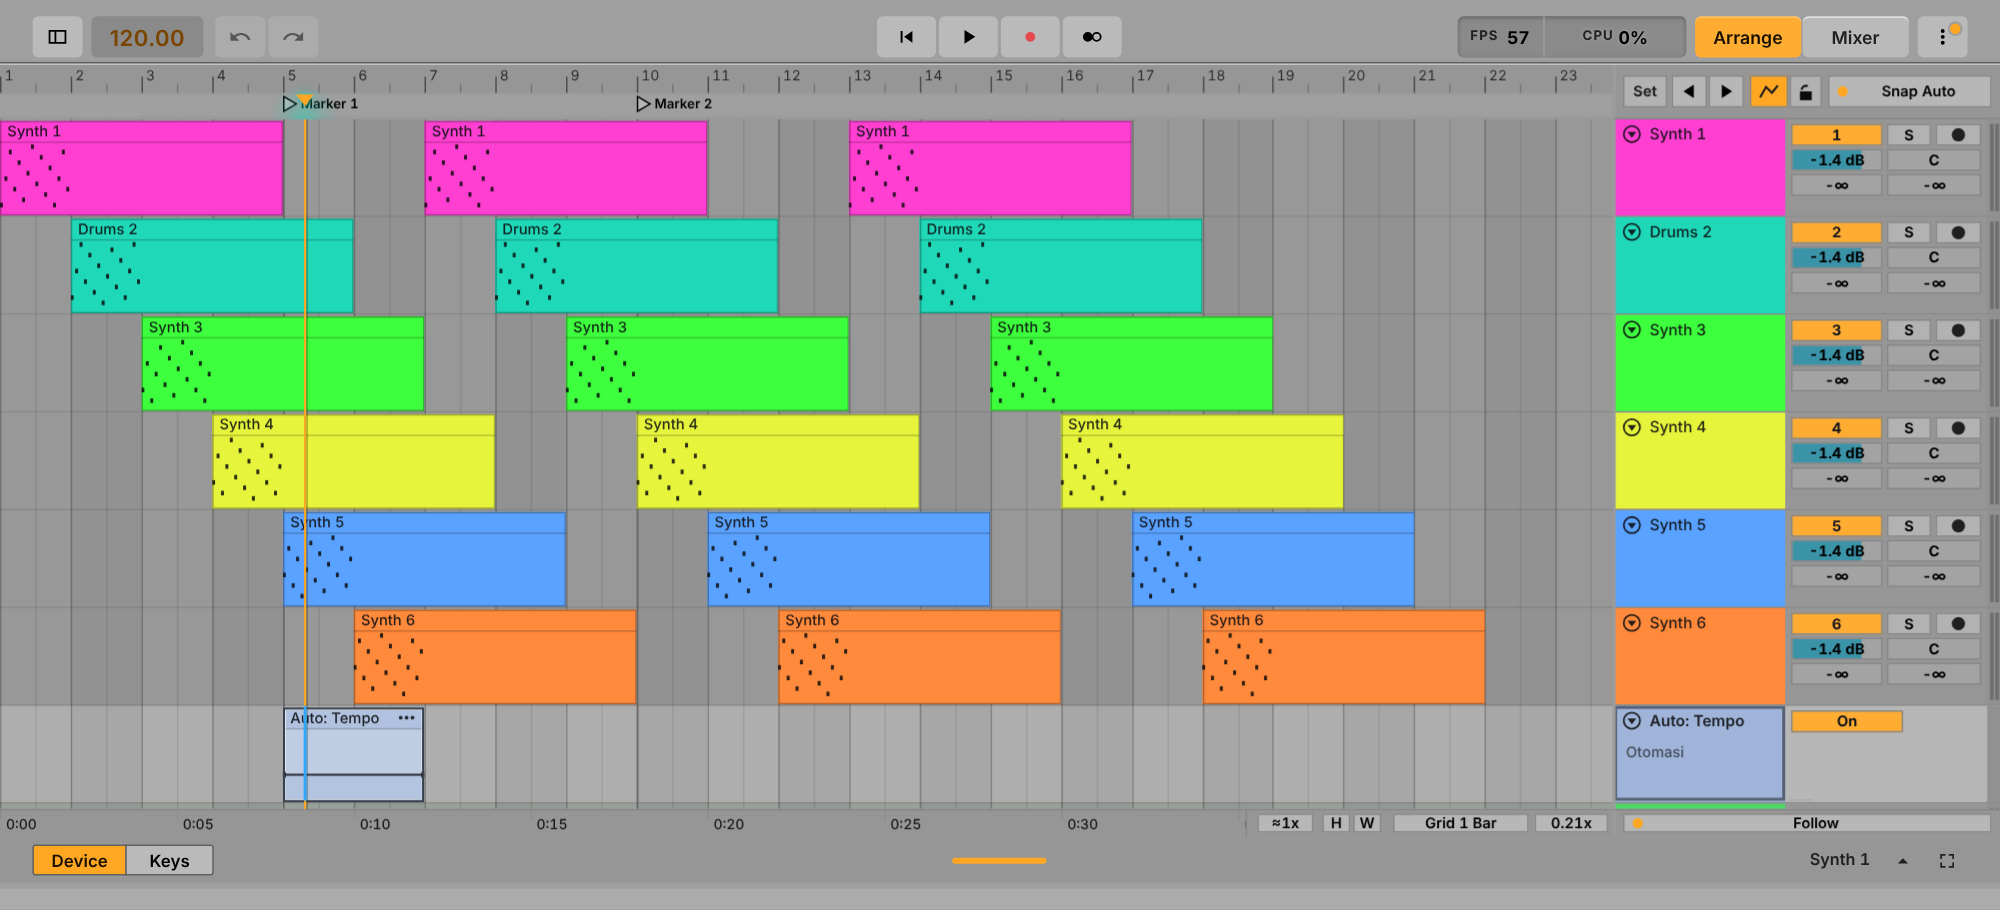
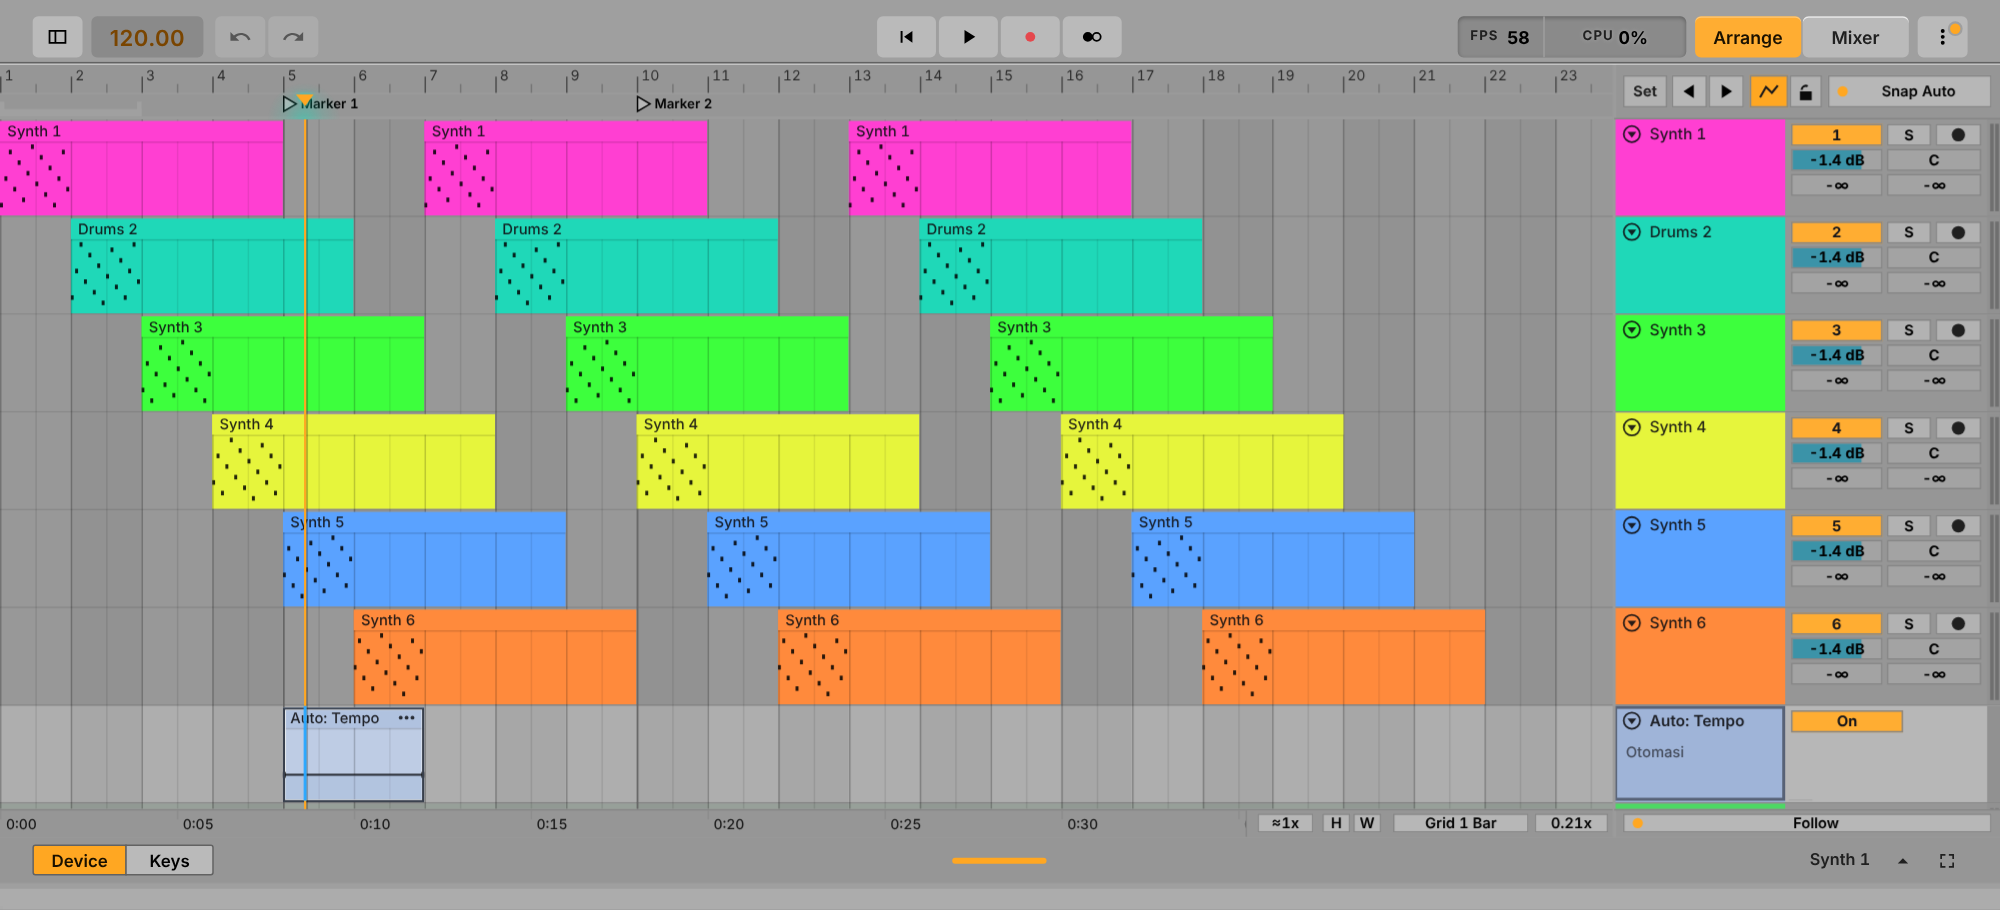
Arrangement colours and lines sampled from the official Live 12 references
- Dark (Live 12) lanes and ruler #323440, a faint dark grid, the grid also through clip bodies
- clips without outline, a faint line under the name strip
- waveforms in a deep tone of the clip colour, notes in its darkest tone

Claude-Session: https://claude.ai/code/session_016R99TjSh2G5U2VqVgMNHhT

diff --git a/js/timeline.js b/js/timeline.js
@@ -240,8 +240,10 @@ function drawClip(t, c, y, hh) {
   // a deactivated clip is grey. Folded / short rows show only the colour + content (no strip).
   const body = c.muted ? '#9a9a9f' : isSel ? tint(t.color, 0.32) : t.color;
   ctx.fillStyle = body; ctx.fillRect(x, y0, w, h0);
-  if (tall) { ctx.fillStyle = isSel ? tint(col, 0.18) : col; ctx.fillRect(x, y0, w, hd); ctx.fillStyle = 'rgba(0,0,0,.22)'; ctx.fillRect(x, y0 + hd, w, 1); }
-  ctx.strokeStyle = 'rgba(0,0,0,.3)'; ctx.lineWidth = 1; ctx.strokeRect(Math.round(x) + 0.5, y0 + 0.5, Math.max(0, Math.round(w) - 1), h0 - 1);   // Live: a faint edge, no heavy outline
+  if (tall) { ctx.fillStyle = isSel ? tint(col, 0.18) : col; ctx.fillRect(x, y0, w, hd); ctx.fillStyle = 'rgba(0,0,0,.14)'; ctx.fillRect(x, y0 + hd, w, 1); }   // the name strip: same colour, a faint line under it
+  // Live 12 (refs/live12-official/02): no outline around a clip; the arrangement grid runs through its body as faint darker lines (beats, bars)
+  { const gx = gridT(), bp = BAR * view.ppt; if (gx * view.ppt >= 6) { ctx.fillStyle = 'rgba(0,0,0,.08)'; for (let tk = Math.ceil(cs / gx) * gx; tk < cs + cl; tk += gx) { const lx = Math.round(tx(tk)); if (lx > xs && lx < xe) ctx.fillRect(lx, y0 + hd, 1, h0 - hd); } }
+    if (bp >= 4) { ctx.fillStyle = 'rgba(0,0,0,.12)'; for (let b = Math.max(0, P.barAt(cs)); P.barStart(b) < cs + cl; b++) { const lx = Math.round(tx(P.barStart(b))); if (lx > xs && lx < xe) ctx.fillRect(lx, y0 + hd, 1, h0 - hd); } } }
   if (isSel && !c.muted) { ctx.strokeStyle = 'rgba(255,255,255,.85)'; ctx.strokeRect(Math.round(x) + 1.5, y0 + 1.5, Math.max(0, Math.round(w) - 3), h0 - 3); }   // selected: a light inner edge
   if (tall && w > 18) {
     ctx.fillStyle = ink(col); ctx.font = FONT(500, 10); ctx.textBaseline = 'middle';   // Live: clip names regular weight
@@ -258,7 +260,7 @@ function drawClip(t, c, y, hh) {
     ctx.fillStyle = INK; for (const p of pts) { const px = x + p.t * view.ppt; if (px >= xs - 3 && px <= xe + 3) ctx.fillRect(px - 2, yy(p.v) - 2, 4, 4); }   // breakpoints, as in Live's automation
   } else if (t.kind === 'audio' && (c.dsample || c.sample) && ((c.dsample || c.sample).pyr || (c.dsample || c.sample).peaks) && bh > 8) {
     const es = c.dsample || c.sample, lk = live.get(c.id) || 1, o = c.offset || 0;
-    ctx.fillStyle = INK;
+    ctx.fillStyle = c.muted ? INK : shade(t.color, 0.72);   // Live 12 (refs/live12-official 02, 03): the waveform in a deep tone of the clip colour, not black
     for (const g of P.loopSegs(c)) {                            // a clip longer than its audio repeats it: every repeat is drawn from the start of the content
       const sx = x + g.o * view.ppt, sw = g.len * view.ppt;
       if (sx > xe || sx + sw < xs) continue;
@@ -278,7 +280,7 @@ function drawClip(t, c, y, hh) {
     }
   } else if (c.notes && bh > 6) {
     const [lo, hi] = noteBox(c), span = hi - lo + 1, nh = Math.max(2, Math.min(bh / span * 0.8, 7));   // Live: solid note bars, about 4/5 of a pitch row
-    ctx.fillStyle = INK;
+    ctx.fillStyle = c.muted ? INK : shade(t.color, 0.85);   // Live 12: notes nearly black, in the clip colour's darkest tone
     for (const g of P.loopSegs(c)) {                            // looped MIDI: the notes are drawn again in every repeat (no empty bars)
       const gx = x + g.o * view.ppt;
       if (gx > xe || gx + g.len * view.ppt < xs) continue;
@@ -351,9 +353,9 @@ function draw() {
   // zoomed-out arrangement is not striped with bright bar lines; every other labelled group a shade darker. Grid Line Intensity scales them.
   const barPx = BAR * view.ppt; let kb = 1; while (barPx * kb < 34) kb *= 2;                     // the same step as the ruler's bar numbers
   const light = currentTone() === 'light', INK = light ? '0,0,0' : '255,255,255', GI = 0.4 + 1.2 * (prefs.gridInt == null ? 0.5 : prefs.gridInt), line = (a) => `rgba(${INK},${Math.min(0.6, a * GI).toFixed(3)})`;
-  ctx.fillStyle = light ? 'rgba(0,0,0,.04)' : 'rgba(0,0,0,.12)';
+  ctx.fillStyle = light ? 'rgba(0,0,0,.04)' : 'rgba(0,0,0,.035)';   // Live 12 dark: the bands barely show
   for (let b = Math.floor(Math.max(0, P.barAt(view.x0)) / kb) * kb; tx(P.barStart(b)) < CW; b += kb) { if ((b / kb) & 1) { const x0 = tx(P.barStart(b)), x1 = tx(P.barStart(b + kb)); ctx.fillRect(x0, RULER, x1 - x0, gy1 - RULER); } }
-  const tEnd = view.x0 + CW / view.ppt + g, sub = line(light ? 0.05 : 0.05), beat = line(light ? 0.09 : 0.10);
+  const tEnd = view.x0 + CW / view.ppt + g, sub = line(light ? 0.05 : 0.025), beat = line(light ? 0.09 : 0.04);
   eachGrid(view.x0 - g, tEnd, g, (t, j) => {
     const x = Math.round(tx(t));
     if (x < 0 || x > CW) return;
@@ -362,7 +364,7 @@ function draw() {
     ctx.fillStyle = r % P.MM.bt[j] === 0 ? beat : sub;
     ctx.fillRect(x, RULER, 1, gy1 - RULER);
   });
-  const barL = line(light ? 0.14 : 0.15), grpL = line(light ? 0.24 : 0.26);   // Live's dark grid reads clearly (refs/live12/058)
+  const barL = line(light ? 0.14 : 0.06), grpL = line(light ? 0.24 : 0.10);   // Live 12's dark grid is faint: about 3-5 levels off the lane (sampled from refs/live12-official/02)
   for (let b = Math.max(0, P.barAt(view.x0)); tx(P.barStart(b)) < CW; b++) { const x = Math.round(tx(P.barStart(b))); if (x >= 0) { ctx.fillStyle = b % kb ? barL : grpL; ctx.fillRect(x, RULER, 1, gy1 - RULER); } }
   if (P.state.sigs.length) { ctx.fillStyle = 'rgba(255,167,34,.3)'; for (const c of P.state.sigs) { const x = Math.round(tx(P.barStart(c.bar))); if (x >= 0 && x <= CW) ctx.fillRect(x, RULER, 1, gy1 - RULER); } }
   for (const m of state.markers) { const x = Math.round(tx(m.t)); if (x < 0 || x > CW) continue; ctx.fillStyle = C('#0e0e10'); ctx.fillRect(x, RULER, 1, gy1 - RULER); }   // Live: a dark line down from every locator
@@ -449,7 +451,7 @@ let loopA = 0;                                                   // drawn bright
 const PUon = () => state.punch.on && state.punch.end > state.punch.start;
 function drawRuler(g) {
   ctx.fillStyle = C('#2c2c2f'); ctx.fillRect(0, 0, CW, LT);                                 // beat-time ruler
-  ctx.fillStyle = C('#232325'); ctx.fillRect(0, LT, CW, RULER - LT);                       // scrub area: locators, loop brace
+  ctx.fillStyle = C('#2c2c2f'); ctx.fillRect(0, LT, CW, RULER - LT);                       // scrub area: locators, loop brace (Live 12: the ruler's colour)
   ctx.fillStyle = C('#08080a'); ctx.fillRect(0, LT - 1, CW, 1); ctx.fillRect(0, RULER - 2, CW, 2);
   ctx.save(); ctx.beginPath(); ctx.rect(0, 0, CW, RULER); ctx.clip();
   if (sel) { ctx.fillStyle = 'rgba(255,255,255,.22)'; ctx.fillRect(tx(sel.a), 0, tx(sel.b) - tx(sel.a), LT - 1); }

diff --git a/sw.js b/sw.js
@@ -1,5 +1,5 @@
 // Offline cache. The cache name contains a hash of every file, so a new deploy replaces the old cache automatically.
-const CACHE = 'mobiledaw-377c9164af45';
+const CACHE = 'mobiledaw-042ff087e91e';
 const ASSETS = ["./", "./css/app.css", "./css/ableton.css", "./css/float.css", "./css/live.css", "./icons/icon-192.png", "./icons/icon-512.png", "./icons/icon-maskable-512.png", "./index.html", "./js/about.js", "./js/aboutdata.js", "./js/audioedit.js", "./js/autocurve.js", "./js/automate.js", "./js/autosave.js", "./js/browser.js", "./js/chords.js", "./js/colorpick.js", "./js/defs.js", "./js/demos.js", "./js/devices.js", "./js/devviz.js", "./js/drumpad.js", "./js/edgeguard.js", "./js/editor.js", "./js/engine.js", "./js/engine/analog.js", "./js/engine/audioops.js", "./js/engine/cmdtext.js", "./js/engine/core.js", "./js/engine/dsp.js", "./js/engine/drift.js", "./js/engine/ds.js", "./js/engine/fx.js", "./js/engine/fx2.js", "./js/engine/fx3.js", "./js/engine/fx4.js", "./js/engine/fx5.js", "./js/engine/fx6.js", "./js/engine/fx7.js", "./js/engine/fx8.js", "./js/engine/granulator.js", "./js/engine/impulse.js", "./js/engine/instruments.js", "./js/engine/live.js", "./js/engine/meld.js", "./js/engine/meter.js", "./js/engine/mp3.js", "./js/engine/mp3tables.js", "./js/engine/nativesink.js", "./js/engine/operator.js", "./js/engine/phys.js", "./js/engine/poli.js", "./js/engine/sabio.js", "./js/engine/sf2.js", "./js/engine/simpler.js", "./js/engine/flmsyn.js", "./js/engine/hdgms.js", "./js/engine/hdmfx.js", "./js/engine/hdmini.js", "./js/engine/hdsaw.js", "./js/engine/smf.js", "./js/engine/stretchworker.js", "./js/engine/tmap.js", "./js/engine/wav.js", "./js/engine/waveops.js", "./js/engine/mdaw.wasm", "./js/engine/wasmengine.js", "./js/engine/web.js", "./js/engine/worklet-wasm.js", "./js/engine/worklet.js", "./js/floatwin.js", "./js/fps.js", "./js/fxviz.js", "./js/fxkit.js", "./js/flmpanels.js", "./js/flmfx.js", "./js/flm3osc.js", "./js/flmlayout.js", "./js/flmlive.js", "./js/slicerdetect.js", "./js/fxlaw.js", "./js/flmviz.js", "./js/gesture.js", "./js/history.js", "./js/import/als.js", "./js/import/build.js", "./js/import/flm.js", "./js/import/flp.js", "./js/import/fxmap.js", "./js/import/gm.js", "./js/import/index.js", "./js/import/ui.js", "./js/keymap.js", "./js/keys.js", "./js/layout.js", "./js/liveinst.js", "./js/liveui.js", "./js/log.js", "./js/main.js", "./js/midi.js", "./js/midiio.js", "./js/minimeters.js", "./js/mmdraw.js", "./js/native.js", "./js/perf.js", "./js/mixer.js", "./js/prefs.js", "./js/presetlib.js", "./js/presets.js", "./js/project.js", "./js/projects.js", "./js/pwa.js", "./js/quicksave.js", "./js/reorder.js", "./js/safdir.js", "./js/settingsui.js", "./js/storage.js", "./js/tempo.js", "./js/theme.js", "./js/timeline.js", "./js/topbar.js", "./js/touchhit.js", "./js/ui.js", "./js/uiscale.js", "./js/waveform.js", "./js/zip.js", "./manifest.json"];
 self.addEventListener('install', (e) => { e.waitUntil(caches.open(CACHE).then((c) => c.addAll(ASSETS)).then(() => self.skipWaiting())); });
 self.addEventListener('activate', (e) => {

diff --git a/js/theme.js b/js/theme.js
@@ -15,7 +15,7 @@ const LIB = {
   highc:    { name: 'Dark Neutral High Contrast', base: 'dark', a: -8, b: 1.14 },
   medc:     { name: 'Dark Neutral Medium Contrast', base: 'dark', a: 10, b: 0.98 },
   // Live 12's default dark theme (refs/live12-official 01-03): the greys a little lighter and cool - lanes about #2c2e35, panels #23252a
-  live12:   { name: 'Dark (Live 12)', base: 'dark', a: 12, b: 0.96, tint: [-3, 0, 6] },
+  live12:   { name: 'Dark (Live 12)', base: 'dark', a: 10, b: 0.96, tint: [-2, 0, 12] },   // lanes / ruler #323440 as sampled from refs/live12-official/02
   lightmc:  { name: 'Light Neutral Medium Contrast', base: 'light', a: -26, b: 1.04 },
   lightlc:  { name: 'Light Neutral Low Contrast', base: 'light', a: -8, b: 0.86 },
   midlight: { name: 'Mid Light',                base: 'light', a: -42, b: 1.0 },

diff --git a/docs/HANDOFF.md b/docs/HANDOFF.md
@@ -765,6 +765,7 @@ Permintaan pemilik: SEMUA efek dan instrumen diganti dengan set stok Ableton Liv
 - Font arrangement disamakan dengan Live: nama track 10.5 px regular, nama klip regular, angka ruler 9.5 px regular abu.
 - **Header track = Live 12** (refs/live12/058, `timeline.js hdr`): tiga kolom ½ / ¼ / ¼: baris 1 aktivator (nomor) | S | arm, baris 2 volume | pan, baris 3 send A | send B (nilai dB polos). Tidak ada tombol otomasi dan isian output di header (ada di menu header: Output…, Lane otomasi…). Grid tema gelap lebih terang, tepi klip tipis. `header-ui-test.mjs` diperbarui.
 - **Referensi resmi Live 12** (`docs/refs/live12-official/01..05`, dari pemilik): garis antar-track tipis 1 px, area drop hanya teks "Seret file dan device ke sini" (tanpa kotak), blok nama berwarna ~46% lebar header, tema baru **Dark (Live 12)** (`live12`: abu sedikit lebih terang dan dingin, LIB `tint`). Perbandingan: `docs/redesign/arr/compare-live12-official.png`.
+- **Warna & garis dari sampel piksel referensi resmi** (refs/live12-official/02): lane & ruler tema Dark (Live 12) = #323440; grid gelap sangat halus (3-5 level dari lane); grid juga tergambar samar di badan klip (beat 8%, bar 12% hitam); klip tanpa outline; strip nama warna sama + garis 14%; waveform = nada gelap warna klip (shade 0.72), not = nada tergelap (0.85); pita selang-seling hampir tak terlihat di tema gelap; area scrub warna ruler.
 - Belum: instrumen replika Live (Drift, Operator, Analog, Poli, Meld, Wavetable, Simpler, Impulse, Granulator, Electric/Tension/Collision, DS) tidak diubah; penanda slice di display Slicer belum ada.
 
 - **Card modul FLM = device Live** (permintaan pemilik: bahasa desain, perilaku dan interaksi card FX Ableton Live): `fxkit.js flmLive` + komposisi per modul di `js/flmlive.js` (37 efek + Transistor Bass / Slicer), dibangun dari bagian yang sama dengan panel Live 12 (`k.dk` display gelap, `k.NT` angka oranye, `k.TL`, `lk-ch`). Pola: kolom knob kiri (`L`) | display (`D`: grafik `flmviz`, `handles` yang diseret seperti Live - EQ band bernomor, ring Filter freq/reso, Threshold Compressor / Gate / Limiter, crossover Multiband, X/Y Waveshaper & Multi FX, 8 band Graphic / Tuned EQ; `tabs` = tombol mode di bawah grafik; `rows` = baris angka di dalam display, `table` = tabel band ala Multiband Dynamics; `tap` keyboard Pitcher; `piano` Scale) | baris knob di bawah display (`B`, ala Chorus-Ensemble / Phaser-Flanger / Auto Pan) | kolom kanan (`R`) dengan Dry/Wet di bawah (`'-'`). Equalizer meniru EQ Eight: band terpilih (Freq / Gain / Q di kiri, tombol 1-4 + tipe + channel di bawah display). `{ sw }` = Sync ala Live (menu saat Sync, knob saat bebas). Tes interaksi nyata di `tools/flmfx-shots.mjs` (seret ring Filter, ketuk keyboard Pitcher 2). 3x Osc masih memakai `flmLayout` (tab).
